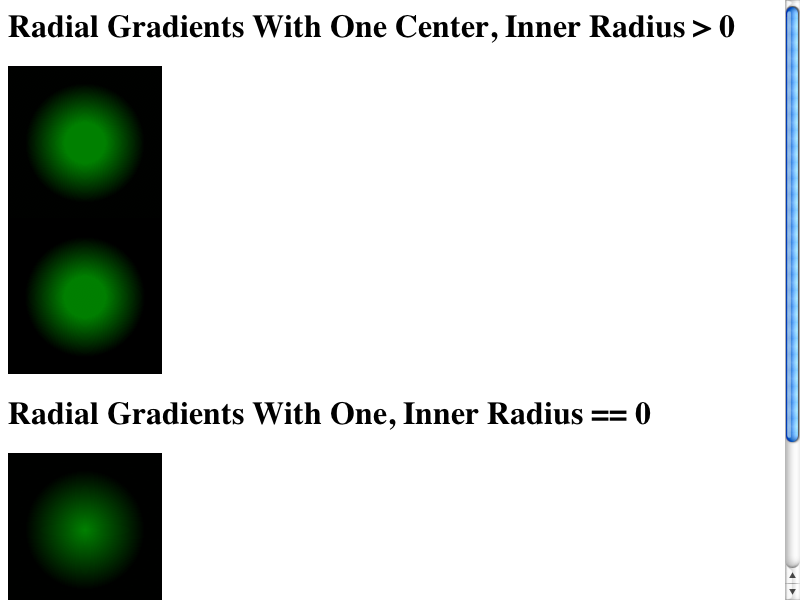
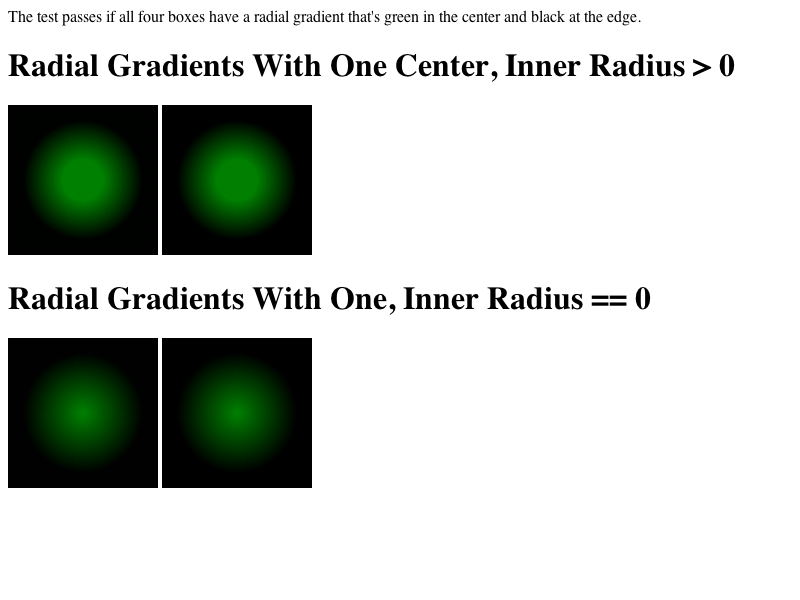
2010-07-09  Nico Weber  <thakis@chromium.org>
Reviewed by Simon Fraser.
        https://bugs.webkit.org/show_bug.cgi?id=41580

        Fix layout test to be smaller in y direction. Also add explanatory text.

        * fast/gradients/radial-centered.html: Make divs display:inline-block.

git-svn-id: http://svn.webkit.org/repository/webkit/trunk/LayoutTests@62981 268f45cc-cd09-0410-ab3c-d52691b4dbfc

Changed region(s): [[0.0, 0.09, 0.9375, 1.0], [0.0, 0.0, 0.9375, 0.06], [0.9688, 0.0, 1.0, 1.0]]

diff --git a/fast/gradients/radial-centered.html b/fast/gradients/radial-centered.html
@@ -1,16 +1,18 @@
 <head>
 <style>
-.radial1 { width:150px; height:150px; border:2px solid black;
+div { display:inline-block; }
+.radial1 { width:150px; height:150px;
            background: -webkit-gradient(radial, 75 75, 20, 75 75, 60, from(green), to(black)); }
-.radial2 { width:150px; height:150px; border:2px solid black;
+.radial2 { width:150px; height:150px;
            background: -webkit-gradient(radial, 75 75, 60, 75 75, 20, from(black), to(green)); }
-.radial3 { width:150px; height:150px; border:2px solid black;
+.radial3 { width:150px; height:150px;
            background: -webkit-gradient(radial, 75 75, 0, 75 75, 60, from(green), to(black)); }
-.radial4 { width:150px; height:150px; border:2px solid black;
+.radial4 { width:150px; height:150px;
            background: -webkit-gradient(radial, 75 75, 60, 75 75, 0, from(black), to(green)); }
 </style>
 </head>
 <body>
+The test passes if all four boxes have a radial gradient that's green in the center and black at the edge.
 <h1>Radial Gradients With One Center, Inner Radius > 0</h1>
 <div class="radial1"></div>
 <div class="radial2"></div>
